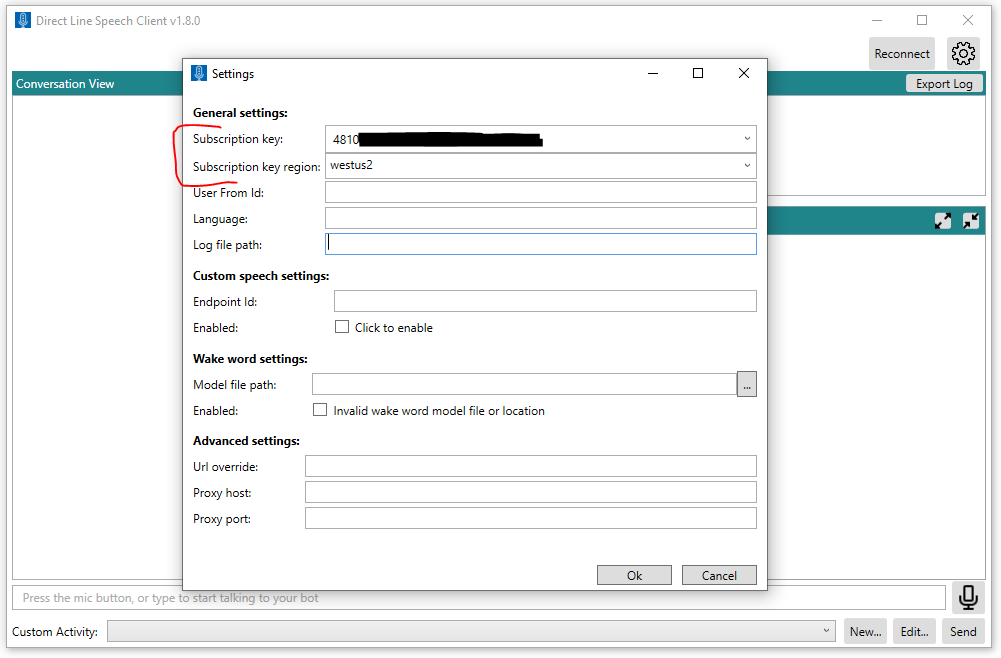
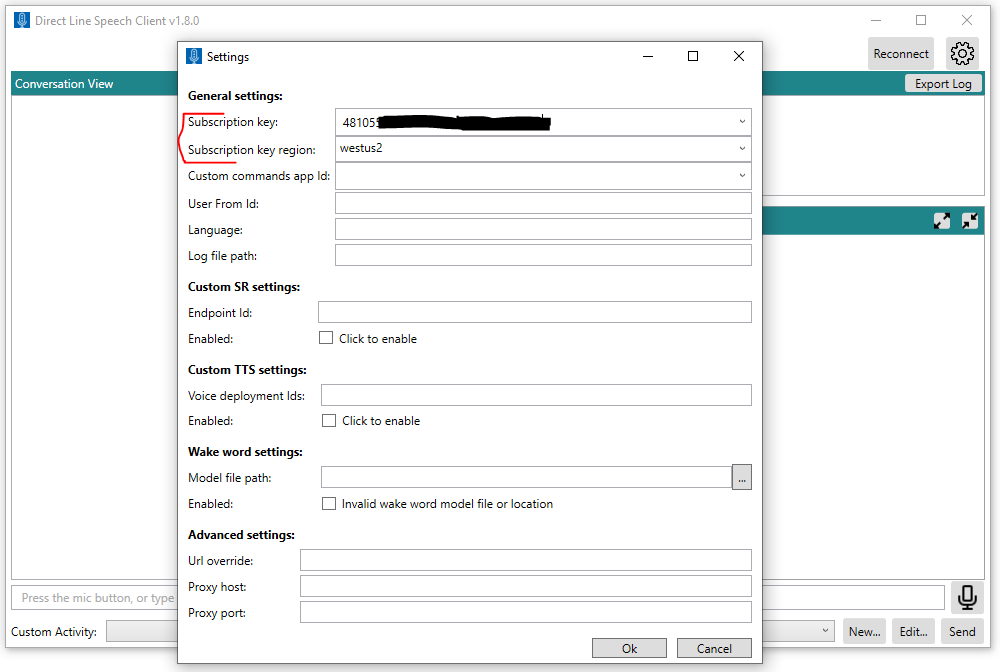
Updates to README.md (#61)
The tool was updated recently. This commit is about updating README.md to reflect those changes and the new look of the settings page. Mention Custom Commands, Custom TTS Voice and Custom SR.

Changed region(s): [[0.0, 0.0, 1.0, 1.0], [0.31, 0.6991, 0.558, 0.7599]]

diff --git a/README.md b/README.md
@@ -14,6 +14,8 @@ urlFragment: Cognitive-Services-Direct-Line-Speech-Client
 
 The Direct Line Speech Client is a Windows Presentation Foundation (WPF) application in C# that makes it easy to test interactions with your bot before creating a custom client application. It demonstrates how to use the [Azure Speech Services Speech SDK](https://docs.microsoft.com/azure/cognitive-services/speech-service/speech-sdk) to manage communication with your Azure Bot-Framework bot. To use this client, you need to register your bot with the [Direct Line Speech](https://docs.microsoft.com/en-us/azure/bot-service/bot-service-channel-connect-directlinespeech?view=azure-bot-service-4.0) channel. Direct Line Speech Client is used in the tutorial [Voice-enable your bot using the Speech SDK](https://docs.microsoft.com/en-us/azure/cognitive-services/speech-service/tutorial-voice-enable-your-bot-speech-sdk).
 
+Following the introduction of [Custom Commands](https://docs.microsoft.com/en-us/azure/cognitive-services/speech-service/custom-commands) (in preview) in Speech SDK 1.8, this tool was updated to accept a custom command application ID. This allows you to test your task completion or command-and-control scenario hosted on the Custom Command service.
+
 ## Features
 
 * Fully configurable to support any bot registered with the Direct Line Speech channel
@@ -46,17 +48,19 @@ Let's review the hardware, software, and subscriptions that you'll need to use t
    ```bash
    cd Cognitive-Services-Direct-Line-Speech-Client
    ```
-3. Launch Visual Studio 2017, then open the solution for the Direct Line Speech Client: `DLSpeechClient.sln`. The solution is in the root of the cloned repository.
+3. Launch Visual Studio 201 or newer, then open the solution for the Direct Line Speech Client: `DLSpeechClient.sln`. The solution is in the root of the cloned repository.
 4. Run the executable. For example, for Release x64 build: `DLSpeechClient\bin\x64\Release\DLSpeechClient.exe`.
 5. When you first run the application, the **Setting** page will open. The first two fields are required (all others are optional):
     - Enter _Subscription key_. This is your Azure [Speech Services Key](https://docs.microsoft.com/en-us/azure/cognitive-services/speech-service/get-started)
     - Enter _Subscription key region_. This is the Azure region of your key in the format specified by the "Speech SDK Parameter" column [in this table](https://docs.microsoft.com/en-us/azure/cognitive-services/speech-service/regions#speech-to-text-text-to-speech-and-translation) (for example "westus")
+    - Leave the field _Custom commands app Id_ empty (unless you plan to use [Custom Commands](#use-custom-commands))
     - The default input language is "en-us" (US English). Update the _Language_ field as needed to select a different [language code from the "Speech-to-text" list](https://docs.microsoft.com/en-us/azure/cognitive-services/speech-service/language-support).
     - Press _Ok_ when you're done.
     - Your entires will be saved and populated automatically when you launch the app again.
-    ![Setting page](docs/media/SettingsPage.png)  
+
+![Setting page](docs/media/SettingsPage.png)  
 6. Press **Reconnect**. The application will try to connect to your bot via Direct Line Speech channel.
- ![Main Page](docs/media/MainPage.png)
+![Main Page](docs/media/MainPage.png)
 The message **New conversation started -- type or press the microphone button** will appear below the text bar if the connection succeeded.
 7. You'll be prompted to allow microphone access. If you want to use the microphone, allow access.
 8. Press the microphone icon to begin recording. While speaking, intermediate recognition results will be shown in the application. The microphone icon will turn red while recording is in progress. It will automatically detect end of speech and stop recording.
@@ -82,6 +86,22 @@ See also _Debugging_ section in [Voice-first virtual assistants Preview: Frequen
 
 Direct Line Speech Client allows you to author and send a custom JSON activity to your bot. This is done using the "Custom Activity" bar at the bottom of the main window and the "New", "Edit" and "Send" buttons. Enter a valid JSON format that conforms to the Bot-Framework Activity schema. An example is given in the file [example.json](docs/json/example.json).
 
+## Add custom keyword activation
+
+See section [Add custom keyword activation](https://docs.microsoft.com/en-us/azure/cognitive-services/speech-service/tutorial-voice-enable-your-bot-speech-sdk#add-custom-keyword-activation) in the tutorial.
+
+## Use custom speech-recognition (SR) endpoint
+
+The [Speech Studio Portal](https://speech.microsoft.com/portal/) allows you to create [Custom Speech](https://docs.microsoft.com/en-us/azure/cognitive-services/speech-service/how-to-custom-speech) in order to build, analyze, and deploy custom speech recognition models. The portal will provide an "Endpoint ID" (a GUID). Enter this GUID in the "Endpoint Id" field in the settings page (under "Custom SR settings"), and check the "Enabled" box below it to have it used. Direct Line Speech channel will use your custom SR endpoint to transcribe voice.
+
+## Use custom text-to-speech (TTS) voice
+
+The [Speech Studio Portal](https://speech.microsoft.com/portal/) allows you to create a [Custom Voice](https://docs.microsoft.com/en-us/azure/cognitive-services/speech-service/how-to-custom-voice-create-voice), where you can record and upload training data to create a unique voice font for your applications. The portal will provide a deployment ID (a GUID). Enter this GUID in the "Voice deployment Ids" field in the settings page (under "Custom TTS settings"), and check the "Enabled" box below it to have it used. Direct Line Speech channel will use your custom TTS endpoint to create the bot's voice response. Note that the "speak" field in the bot's reply Activity must contain the name of the voice you created in the portal.
+
+## Use custom commands
+
+If you built your dialog using the [Custom Commands](https://docs.microsoft.com/en-us/azure/cognitive-services/speech-service/custom-commands) service (instead of a Bot-Framework bot registered with Direct Line Speech channel), enter your custom commands application ID in the setting page ("custom commands app id"). This client application will connect to the custom commands service that hosts your dialog.
+
 ## Resources
 - [Bot Framework](https://dev.botframework.com/) docs:
   - [About Direct Line](https://docs.microsoft.com/en-us/azure/bot-service/bot-service-channel-directline?view=azure-bot-service-4.0)
@@ -92,11 +112,8 @@ Direct Line Speech Client allows you to author and send a custom JSON activity t
 - [Speech SDK](https://docs.microsoft.com/en-us/azure/cognitive-services/speech-service/speech-sdk) docs:
   - [About voice assistants](https://docs.microsoft.com/en-us/azure/cognitive-services/Speech-Service/voice-assistants)
   - [Tutorial: Voice-enable your bot using the Speech SDK](https://docs.microsoft.com/en-us/azure/cognitive-services/speech-service/tutorial-voice-enable-your-bot-speech-sdk)
-  - [Voice assistants: Frequently asked questions](https://docs.microsoft.com/en-us/azure/cognitive-services/Speech-Service/faq-voice-assistants)
-  - [Troubleshoot the Speech SDK](https://docs.microsoft.com/en-us/azure/cognitive-services/speech-service/troubleshooting)
-  - [Quickstart: Create a voice assistant with the Speech SDK, UWP](https://docs.microsoft.com/en-us/azure/cognitive-services/speech-service/quickstart-voice-assistant-csharp-uwp)
-  - [Quickstart: Create a voice assistant with the Speech SDK, Java](https://docs.microsoft.com/en-us/azure/cognitive-services/speech-service/quickstart-voice-assistant-java-jre)
-  - [Quickstart: Create a voice assistant in Java on Android by using the Speech SDK](https://docs.microsoft.com/en-us/azure/cognitive-services/speech-service/quickstart-voice-assistant-java-android)
+  - [What is custom Speech?](https://docs.microsoft.com/en-us/azure/cognitive-services/speech-service/how-to-custom-speech)
+  - [Create a custom voice](https://docs.microsoft.com/en-us/azure/cognitive-services/speech-service/how-to-custom-voice-create-voice)
   - [Create a custom wake word by using the Speech service](https://docs.microsoft.com/en-us/azure/cognitive-services/speech-service/speech-devices-sdk-create-kws)
   - [Try Speech Services for free](https://docs.microsoft.com/en-us/azure/cognitive-services/speech-service/get-started)
   - [Language and region support for the Speech Services](https://docs.microsoft.com/en-us/azure/cognitive-services/speech-service/language-support)
